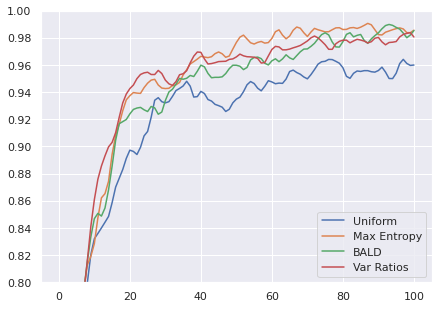
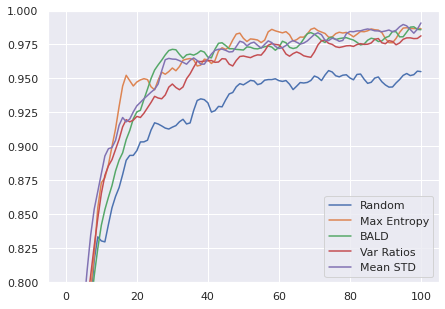
add meanstd results

diff --git a/main.py b/main.py
@@ -1,6 +1,5 @@
 import os
 import time
-import shutil
 import argparse
 import numpy as np
 import seaborn as sns
@@ -202,9 +201,8 @@ def main():
     ) = DataLoader.load_all()
 
     SAVE_PATH = "result_npy"
-    if os.path.exists(SAVE_PATH):
-        shutil.rmtree(SAVE_PATH)
-    os.mkdir(SAVE_PATH)
+    if not os.path.exists(SAVE_PATH):
+        os.mkdir(SAVE_PATH)
 
     results = train_active_learning(args, device, datasets)
     plot_results(data=results, folder=SAVE_PATH)

diff --git a/README.md b/README.md
@@ -75,7 +75,7 @@ Number of acquired images to get model error of %: (the lower the better)
 | Techniques | 10% error (Paper: Keras) | 10% error (Experiment: Pytorch) | 5% error (Paper: Keras) | 5% error (Experiment: Pytorch) |
 |  :------:  |   :------:   |   :------:   |   :------:   |   :------:   |
 | Random (Baseline) | 255 | 250 | 835 | 517 |
-| Mean STD | 230 |  | 695 |  |
+| Mean STD | 230 | 100 | 695 | 295 |
 | BALD | 145 | 150 | 335 | 296 |
 | Var Ratios | 120 | 143 | 295 | 283 |
 | Max Entropy | 165 | 163 | 355 | 310 |
@@ -89,7 +89,7 @@ np.random.choice(range(len(X_pool)), size=2000, replace=False)
 - BALD: ~10m 52s
 - Var Ratios: ~10m 58s
 - Max Entropy: ~10m 39s
-- Mean STD: 
+- Mean STD: ~10m 40s
 
 Best 2 models: Var Ratios, BALD
 
@@ -112,7 +112,7 @@ Test error on MNIST with 1000 acquired images, using **5000** validation points:
 | Technique | Test error (Paper: Keras) | Test error (Experiment: Pytorch) |
 |  :-----:  |   :----:   |   :----:   |
 | Random(Baseline) | 4.66% | 3.73% |
-| Mean STD | - |  |
+| Mean STD | - | 1.81% |
 | BALD | 1.80% | 1.81% |
 | Max Entropy | 1.74% | 1.66% |
 | Var Ratios | 1.64% | 1.57% |
